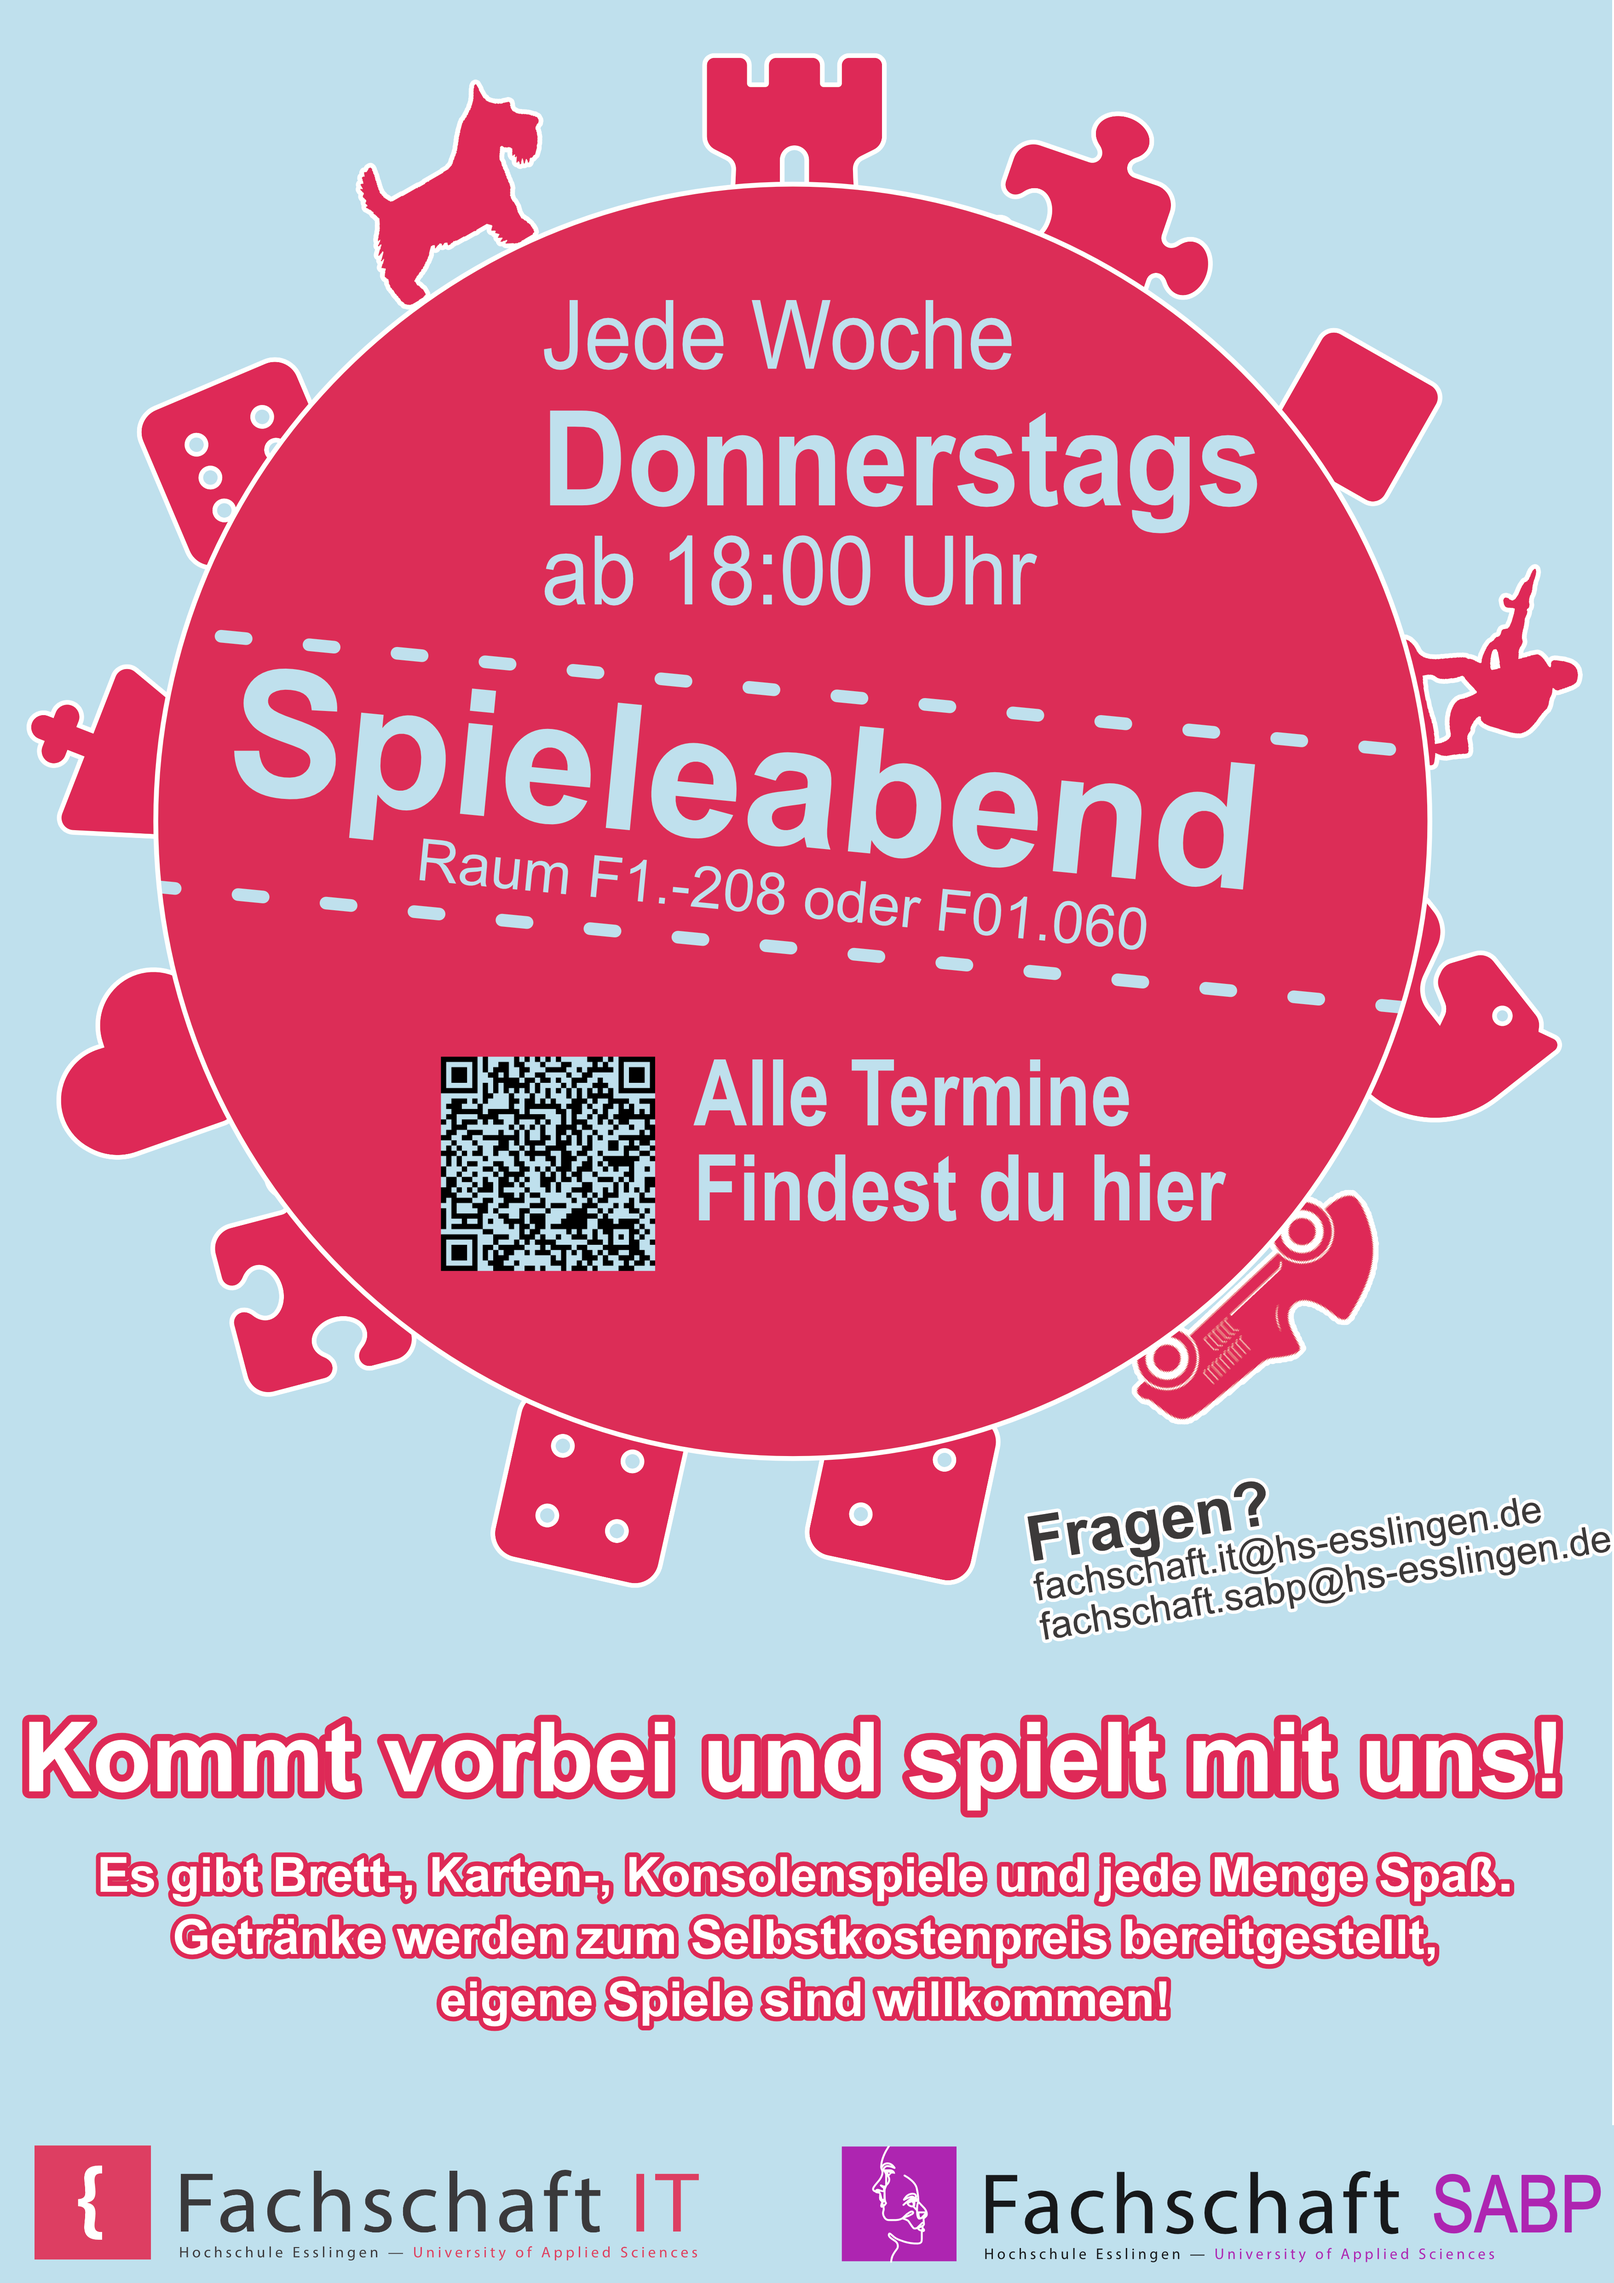
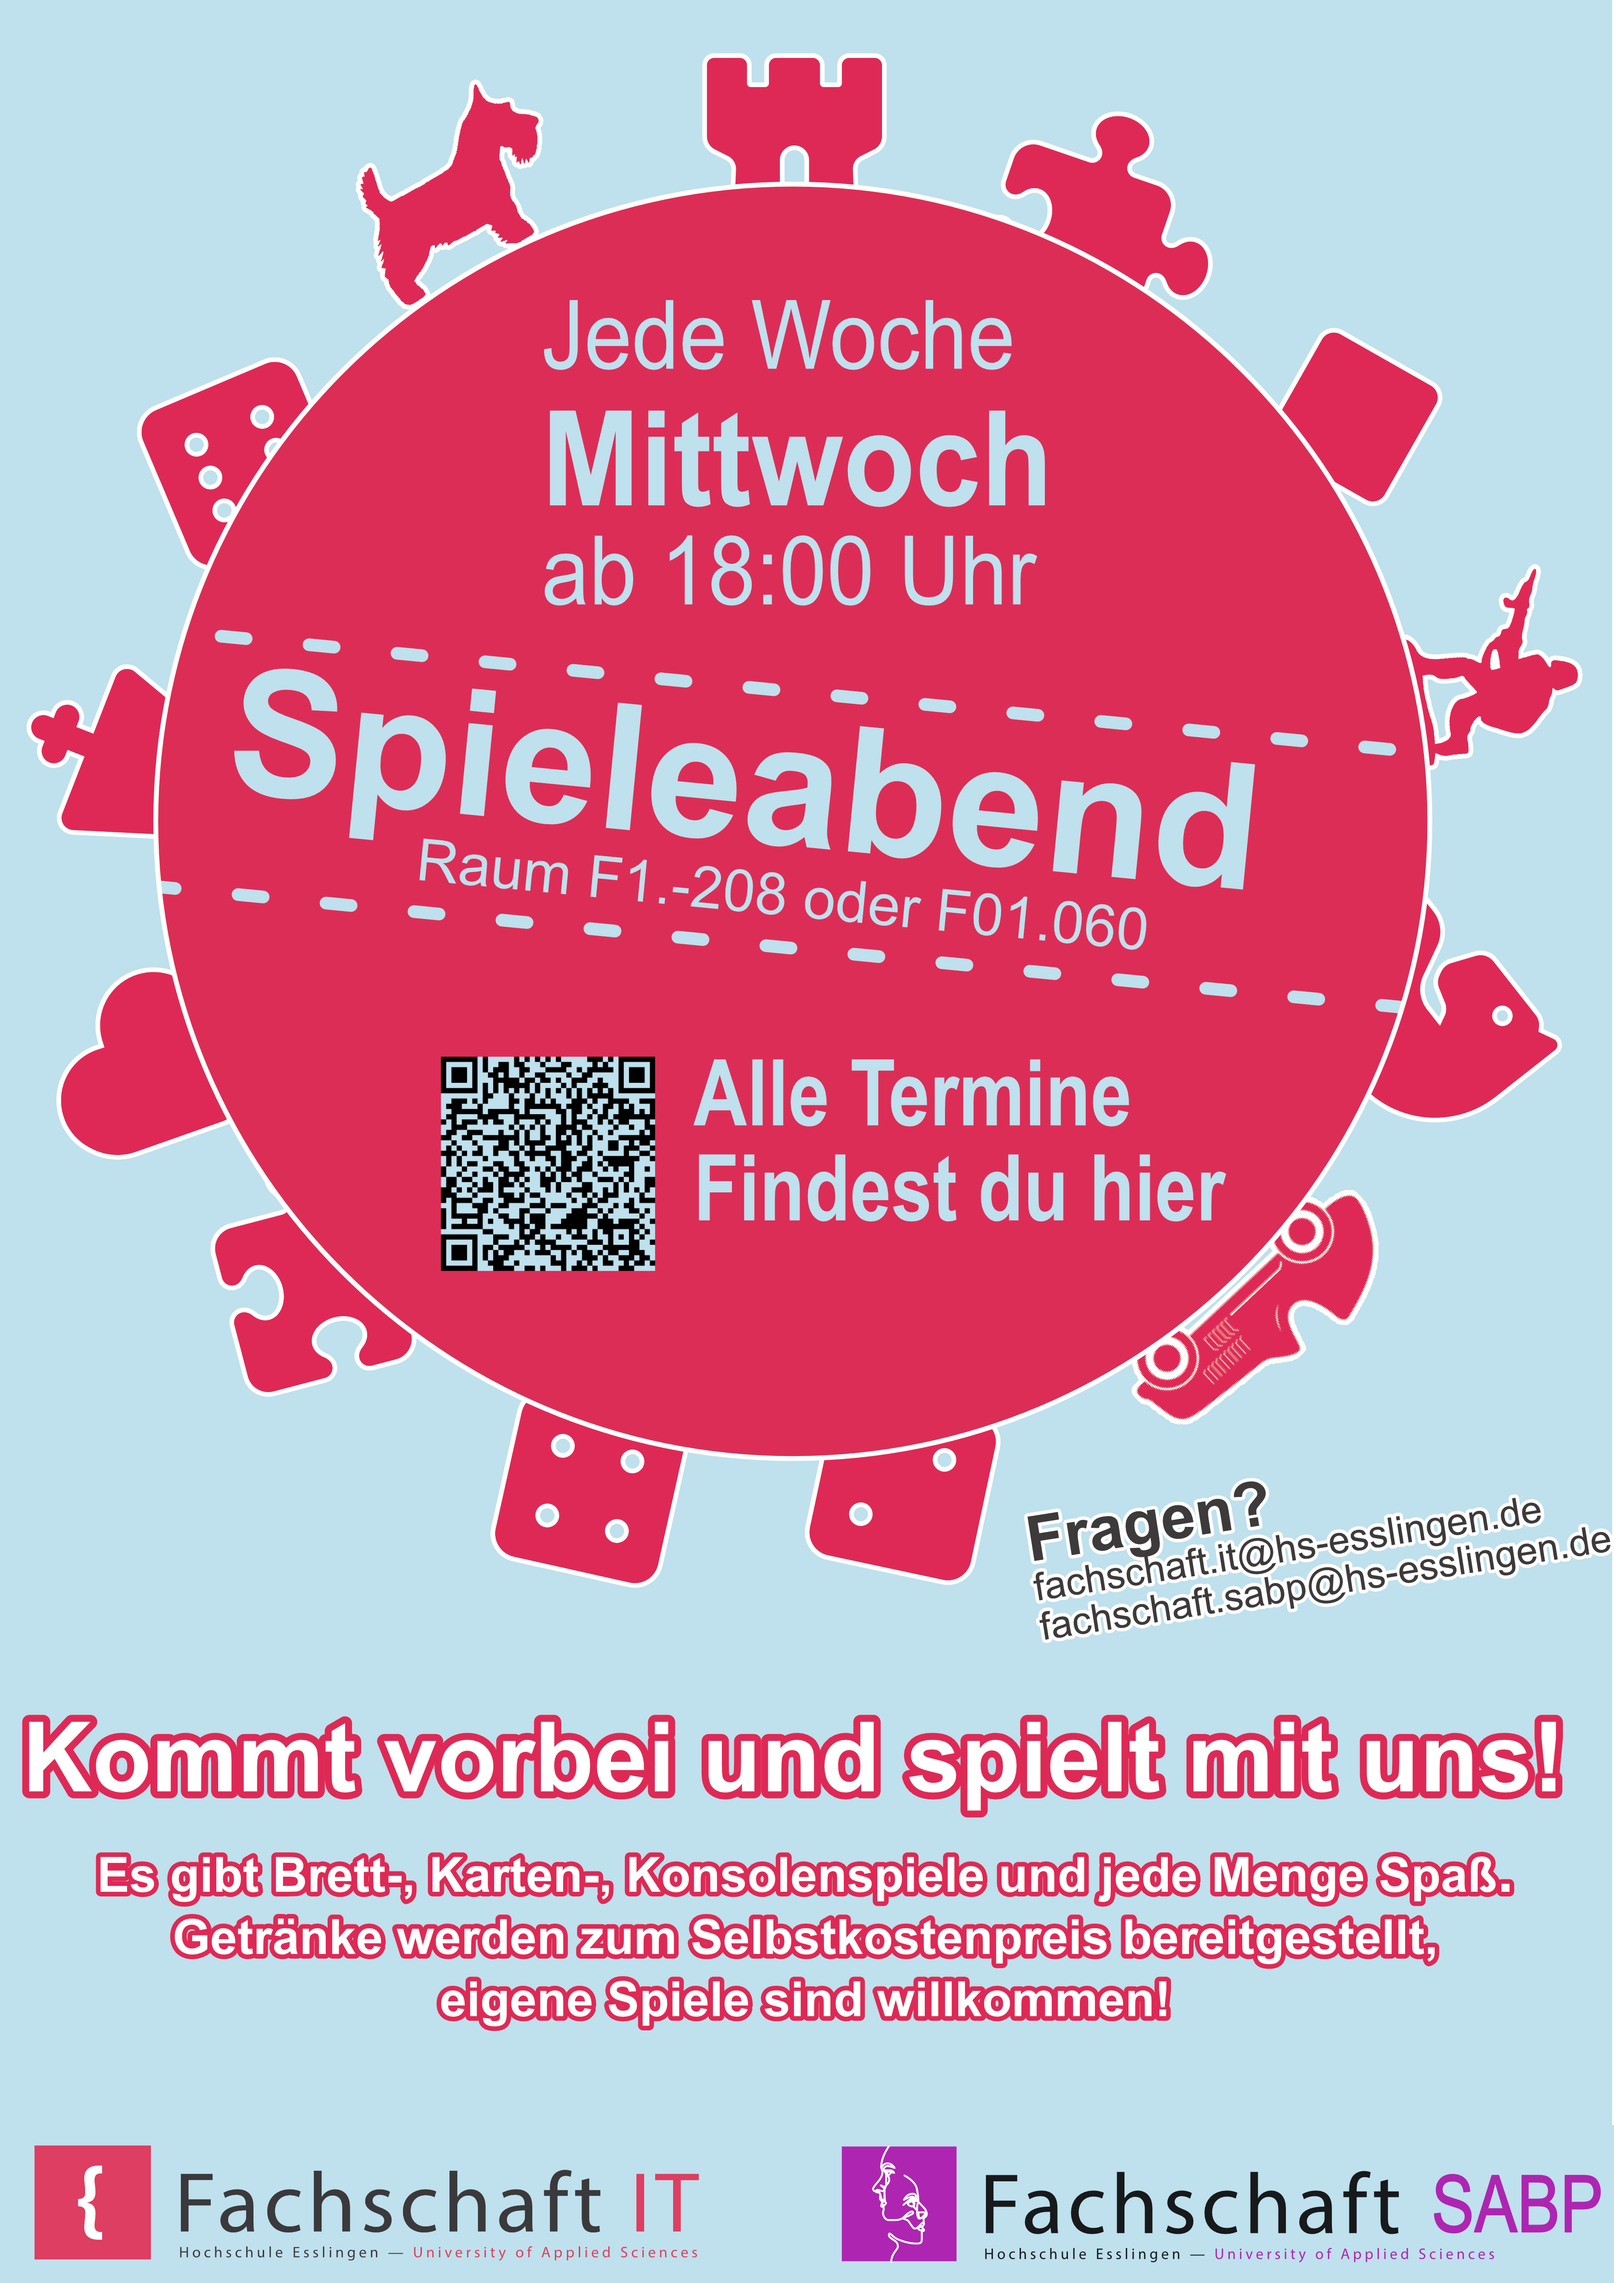
Mittwoch!

Changed region(s): [[0.3418, 0.1562, 0.7768, 0.2499]]

diff --git a/Spieleabend/index.html b/Spieleabend/index.html
@@ -51,7 +51,7 @@
             <p><strong>Die Fachschaften IT und SAPB laden zu den Spieleabenden f&uuml;rs WS25/26 ein!<br/></strong></p>
             <p><strong>Wo:</strong> Im Fachschaftsraum F1.-208, oder auf Anfrage Barrierefrei in F01.060
             <br/><strong>W𝗲𝗿:</strong> alle Studis der Hochschule Esslingen - insbesondere Fakult&auml;t IT &amp; SABP
-            <p><strong>Wann:</strong> Jede Woche Donnerstags ab 18:00</p>
+            <p><strong>Wann:</strong> Jede Woche Mittwoch ab 18:00</p>
 
             <!--
             <p><span style="text-decoration: line-through;">11.03.2025 Der erste Spieleabend des Semesters. Wir sitzen mit Spa&szlig; und Spiel zusammen. Gerade praktisch f&uuml;r die Erstsemester, um euere neuen Kommilitonen kennenzulernen.</span></p>
